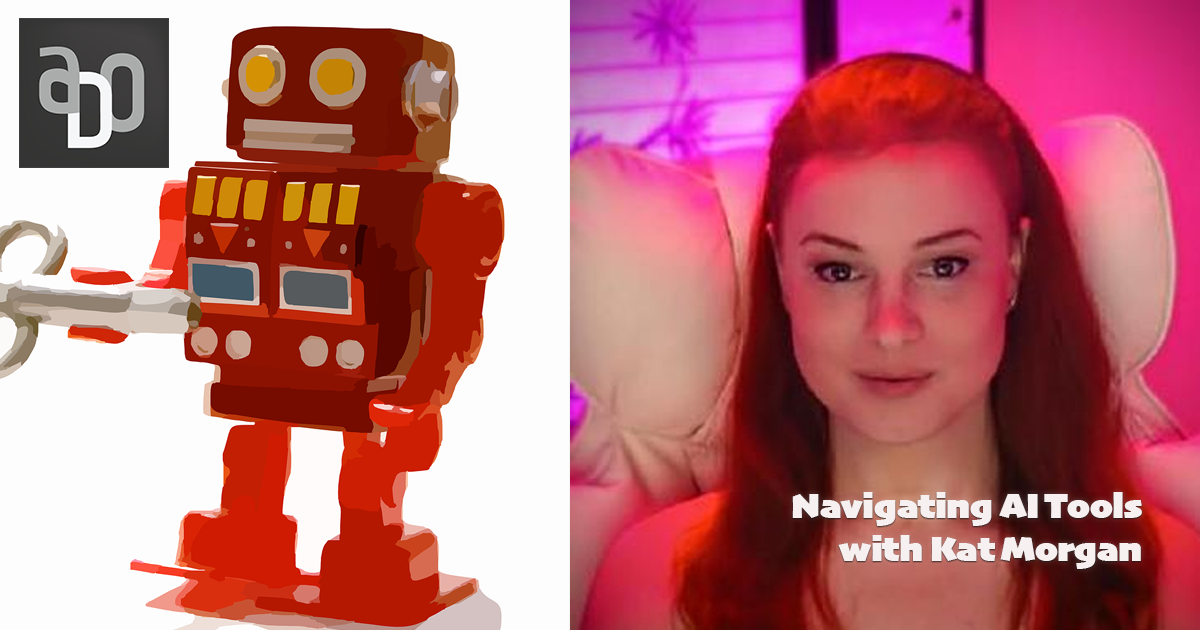
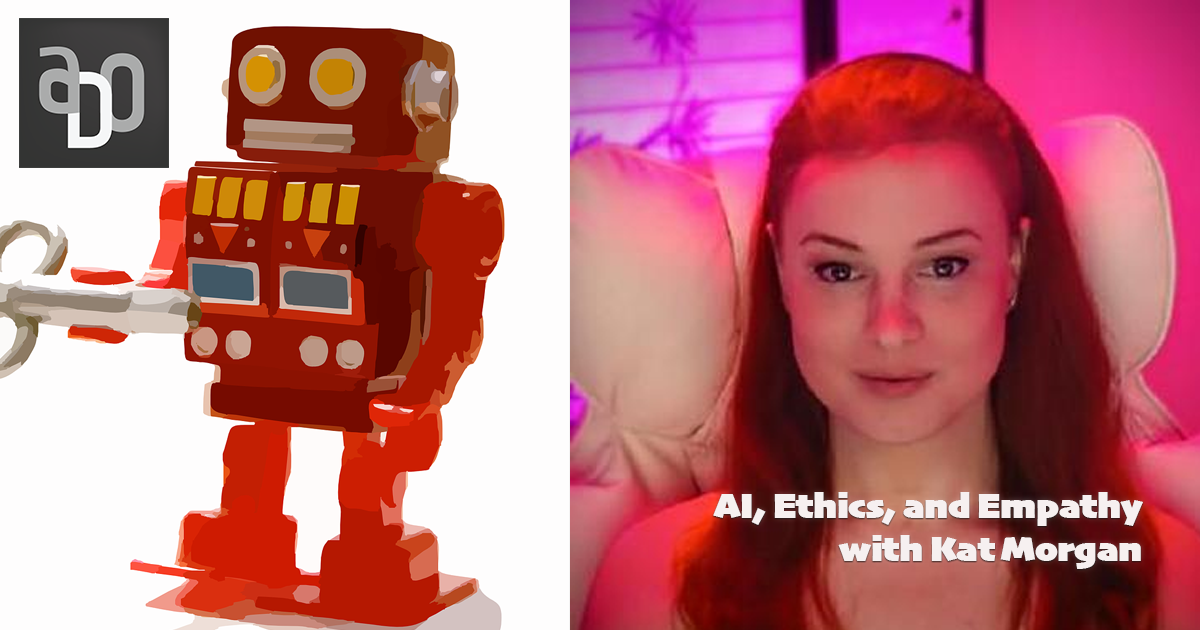
Update epiosde

Changed region(s): [[0.5858, 0.7841, 0.9558, 0.8444]]

diff --git a/content/episode/using-ai.md b/content/episode/using-ai.md
@@ -10,20 +10,34 @@ episode_banner = "episode/img/using-ai-banner.png"
 guests = ["kmorgan"] # The names of your guests, based on the filename without extension.
 sponsors = ["flyio"]
 episode = "203"
-title = "Navigating AI Tools with Kat Morgan"
+title = "AI, Ethics, and Empathy with Kat Morgan"
 images = ["img/social/fb/using-ai.png"]
 hosts = ["mstratton"] # The names of your hosts, based on the filename without extension.
 aliases = ["/203"]
 explicit = "no" # values are "yes" or "no"
 transcript = "/static/transcripts/using-ai.md"
 +++
-In this episode of Arrested DevOps, host Matty Stratton is joined by Kat Morgan to discuss the intricacies and impacts of AI in the world of DevOps. The conversation delves into various ethical, ecological, and accessibility considerations surrounding AI technologies like large language models (LLMs). Both Matty and Kat share personal experiences on how AI has facilitated their workflows, emphasizing the importance of maintaining good coding hygiene and task management. They also explore practical tips for safely integrating AI tools into development practices while protecting intellectual property and maintaining security. The episode concludes with a reminder on the significance of treating AI tools respectfully, much like we should treat fellow humans.
+We’ve all been there: burning out on volatile tech jobs, tangled in impossible systems, and wondering what our work actually means. On this episode of Arrested DevOps, Matty Stratton sits down with Kat Morgan for a heartfelt, funny, and sharply observant conversation about AI—what it helps with, what it hurts, and how we navigate all of that as humans in tech.
 
-00:00 Introduction and Sponsor Message
-01:11 Welcoming the Guest: Kat Morgan
-01:46 Diving into AI and Its Impacts
-04:44 Personal Experiences with AI Tools
-06:52 Challenges and Ethical Considerations
-10:19 Practical Applications and Coding with AI
-26:23 Security and Best Practices
-30:12 Final Thoughts and Wrap-Up
+They dive deep into how large language models (LLMs) both assist and frustrate us, the ethics of working with machines trained on the labor of others, and why staying kind—to the robots and to ourselves—might be one of the most important practices we have.
+
+>“We actually have to respect our own presence enough to appreciate that what we put out in the world will also change ourselves.” – Kat Morgan
+
+
+## Topics
+
+- Why strong opinions about AI often miss the nuance
+- Using LLMs to support neurodivergent workflows (executive function as a service!)
+- Treating agents like colleagues and the surprising benefits of that mindset
+- Code hygiene, documentation, and collaborating with AI in GitHub issues
+- Building private, local dev environments to reduce risk and improve trust
+- Ethical tensions: intellectual property, environmental impact, and the AI value chain
+- Why we should be polite to our agents—and what that says about how we treat people
+
+## Key Takeaways
+
+- AI isn’t magic—but it can be a helpful colleague. Kat shares how she uses LLMs to stay on task, avoid executive dysfunction, and manage complex projects with greater ease.
+- Good context design matters. When working with AI, things like encapsulated code, clean interfaces, and checklists aren’t just best practices—they’re vital for productive collaboration.
+- Skepticism is healthy. Kat reminds us that while AI can be useful, it also messes up. A lot. And without guardrails and critical thinking, it can become more of a liability than a partner.
+- Build humane systems. From privacy risks to climate concerns, this episode underscores that responsible AI use requires ethical intent—and that starts with practitioners.
+
